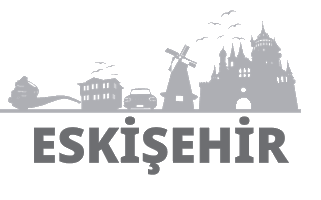
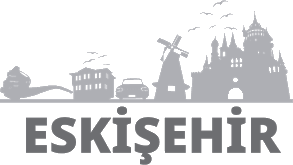
weather image fix

diff --git a/src/screens/Weather.js b/src/screens/Weather.js
@@ -95,7 +95,7 @@ class Weather extends Component {
                     hideChevron
                 />
                 <Image
-                  style={{flex:1, resizeMode: 'stretch', width: '100%', marginLeft: 10}}
+                  style={{flex:1, resizeMode: 'stretch', width: '100%'}}
                   source={require('../assets/eses.png')}
                 />
             </View>
